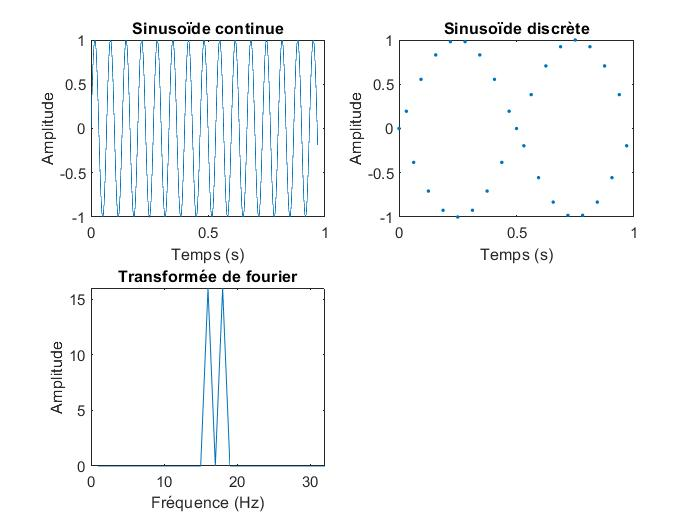
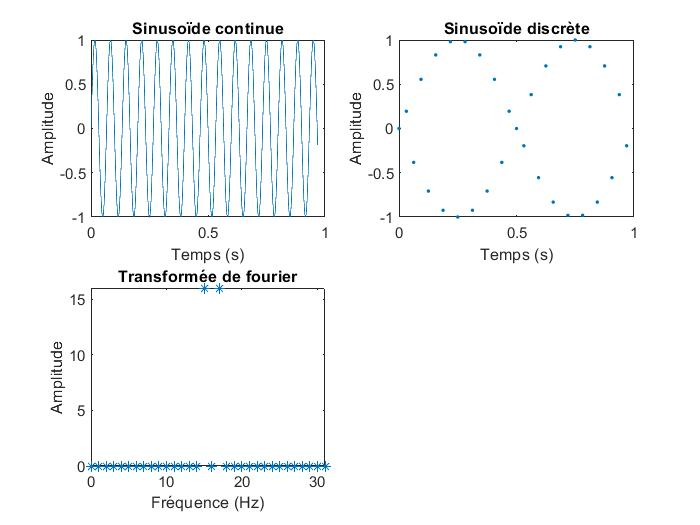
update readme

Changed region(s): [[0.12, 0.5486, 0.48, 0.9448]]

diff --git a/README.md b/README.md
@@ -1,13 +1,35 @@
 # Projet CHTI
 ## Partie 1 : Prise en main de Matlab / Simulink
-#### Tracé des courbes  pour 3hz
+
+On va tracer plusieurs courbes avec les paramètres suivants :
+* Fenêtre d'analyse T = 1s
+* Nombre de points d'échantillonage M = 32
+
+#### Tracé des courbes  pour Fsin = 3hz
 
 ![Figure 1 : Tracé pour 3Hz](/images/plot_3hz.jpg)
 
-Commentaires
+Sur le graphe de la transformée de Fourier, on observe 2 pics de fréquence :
+* 3Hz : Fsin
+* 29Hz : M - Fsin
 
-#### Tracé des courbes pour 15hz
+#### Tracé des courbes pour Fsin = 15hz
 
 ![Figure 2 : Tracé pour 15Hz](/images/plot_15hz.jpg)
 
-Commentaires
+Sur le graphe de la transformée de Fourier, on observe 2 pics de fréquence :
+* 15Hz : Fsin
+* 17Hz : M - Fsin
+
+On constate que les deux pics de fréquences se rapprochent beaucoup par rapport au tracé pour 3Hz, on se rapproche du repliement du spectre.
+En augmentant la fréquence du sinus (Fsin), on peut être amené à déterminer de fausses fréquences sur le spectre de Fourier à cause de ce phénomène.
+
+#### Exemple avec Fsin = 29Hz
+
+![Figure 3 : Tracé pour 29Hz](/images/plot_29hz.jpg)
+
+On observe 2 pics:
+* 3Hz : M - Fsin
+* 29Hz : Fsin
+
+Si on ne sait pas que la fréquence du sinus est 29Hz, on déduit du spectre de Fourier que la fréquence est de 3Hz : c'est le phénomène de repliement du spectre.
